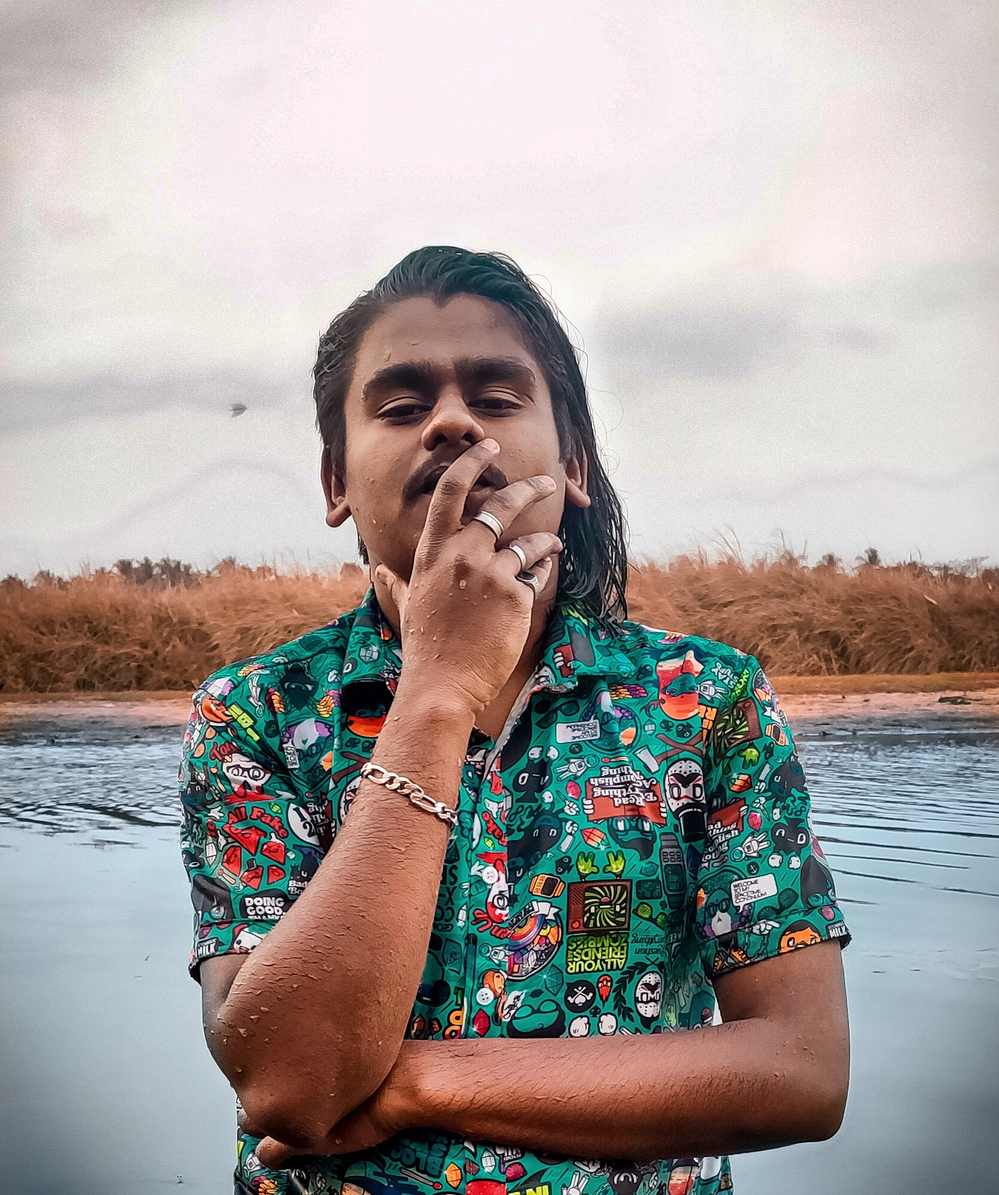
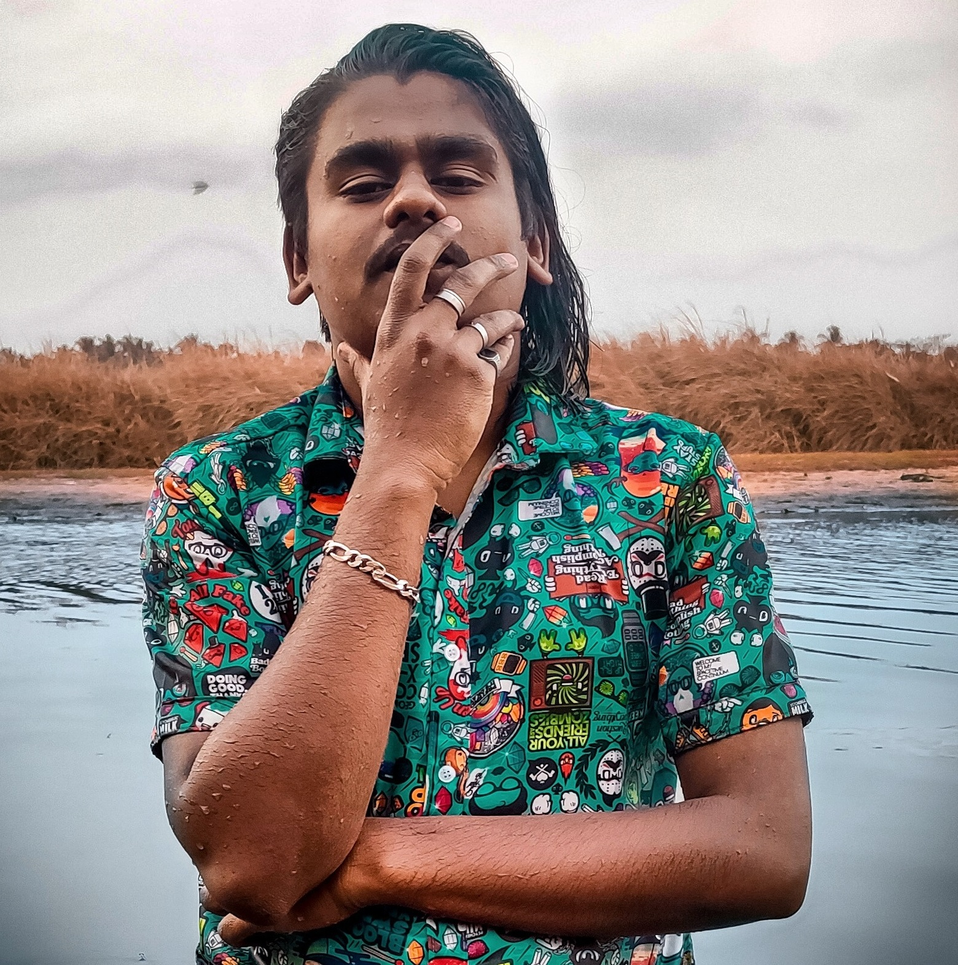
final file

diff --git a/index.html b/index.html
@@ -33,6 +33,7 @@
 	<!-- //css files -->
 	
 	<!--web font--><link href="//fonts.googleapis.com/css?family=Lato:100,100i,300,300i,400,400i,700,700i,900,900i&amp;subset=latin-ext" rel="stylesheet">
+	<script src="https://ajax.googleapis.com/ajax/libs/jquery/3.5.1/jquery.min.js"></script>
 	<!--//web font-->
 
 </head>
@@ -45,23 +46,26 @@
 		<!-- nav -->
 		<nav class="py-4">
         <div id="logo">
-			<h1> <a href="#index.html"><span class="fa fa-rebel" aria-hidden="true"></span> INTRO</a></h1>
+			<h1> <a href="#index.html"><span class="fa fa-rebel" aria-hidden="true"></span></a></h1>
 		</div>
 
         <label for="drop" class="toggle">Menu</label>
         <input type="checkbox" id="drop" />
             <ul class="menu mt-2">
-                <li class="mr-lg-4 mr-3 active"><a href="#">Home</a></li>
+                <li class="mr-lg-4 mr-3 active"><a href="#home-section">Home</a></li>
                 <li class="mr-lg-4 mr-3"><a href="#about">About</a></li>
                 <li class="mr-lg-4 mr-3"><a href="#services">Services</a></li>
-                <li class="mr-lg-4 mr-3"><a href="#experience">Education</a></li>
-                <li class="mr-lg-4 mr-3">
+				<li class="mr-lg-4 mr-3"><a href="#experience">Education</a></li>
+				<li class="mr-lg-4 mr-3">
                 <!-- First Tier Drop Down -->
                 <label for="drop-2" class="toggle">Dropdown <span class="fa fa-angle-down" aria-hidden="true"></span> </label>
                 <a href="#">Dropdown <span class="fa fa-angle-down" aria-hidden="true"></span></a>
                 <input type="checkbox" id="drop-2"/>
                 <ul>
-                   <li><a href="#text">Quoted Text</a></li>
+					<li><a href="#skill-section">Skills</a></li>
+				   <li><a href="#experience-section">Experiences</a></li>
+				   <li><a href="#gallery-section">My Gallery</a></li>
+				   
                 </ul>
                 </li>
                 <li><a href="#contact">Contact</a></li>
@@ -73,12 +77,12 @@
 <!-- //header -->
 		
 <!-- banner -->
-<section class="banner">
+<section class="banner" id="home-section">
 	<div class="banner-layer">
 		<div class="container">
 			<div class="row w3pvt_banner_info">
 				<div class="col-md-8 w3layouts_banner_margin">
-					<h3 class="editContent">My name is </h3>
+					<h3 class="editContent">Hi i'm</h3>
 					<h2 class="editContent">RANJITH R </h2>
 					<h4>Web Designer and Developer</h4>
 					<p> name  RANJITH R <br>D.O.B 24-08-1999 <br> PHONE +91 6282936599 <br>E-MAIL ranjithranjukpm333@gmail.com</p>
@@ -98,11 +102,15 @@
 		<div class="row about-grids">
 			<div class="col-lg-4">
 				<h4 class="">Hi i'm RANJITH R</h4>
-				<p class="my-4">Am a web designer and web developer who starting carrier,had experience in Designing with HTML:5,Bootstrap and jquery and Developing with java. Am fueled by my passion to becoming a expert programmer. I considered mysel a "learner" eager to learn new technologies in programming. I belives maindfulness in the work place is the key to success.</p>
+				<p class="my-4">Consider me as a cinemaholic, yup I watch a lot of movies and series.
+					I spend most of my time on internet(Facebook, Instagram etc.),
+					And you already know developing websites, watching movies etc.
+					I listen to music a lot too, my favourite artists would be Xxxtenacion, Lana Del Rey and Billie Eilish. I'm a web designer and developer based in Kerala
+					I build interactive websites that run across platforms and devices.I had experience in Designing with HTML:5,Bootstrap and jquery and Developing with Python Django. Am fueled by my passion to becoming a expert programmer.</p>
 			
 			</div>
 			<div class="col-lg-4 ">
-				<img src="images/ranjith.jpg" alt="" class="img-fluid" />
+				<img src="images/gypay (1).jpg" alt="" class="img-fluid" />
 			</div>
 		<div class="col-lg-4 bar-grids">
 			<div class="wthree_skills">
@@ -135,13 +143,21 @@
 					</div>
 					<br><br>
 					<div class="container">
-					    <h3><i><b> Photoshop</b></i></h3>
+					    <h3><i><b> Git</b></i></h3>
 						<div class="progress">
 							<div class="progress-bar" role="progressbar" aria-valuenow="85" aria-valuemin="0" aria-valuemax="100" style="width:85%">
 								85%
 							</div>
 							</div>
-				    </div>
+					</div><br><br>
+					<div class="container">
+					    <h3><i><b> Photoshop</b></i></h3>
+						<div class="progress">
+							<div class="progress-bar" role="progressbar" aria-valuenow="85" aria-valuemin="0" aria-valuemax="100" style="width:85%">
+								80%
+							</div>
+							</div>
+					</div>
 				</h6>
 				</div>
 
@@ -165,11 +181,11 @@
 			
 			<div class="col-lg-4 col-md-6 w3layouts mt-lg-0 mt-sm-5 mt-4 w3-icon-grid1">
 				<h3><span class="fa mr-2 fa-laptop" aria-hidden="true"></span>WEB DEVELOPMENT</h3>
-				<p>Web Development is developing a web site ,it is the core part also called Back-end.The web site wants to store some datas of user,so developer done in this stage using sql.Web development can range from developing a simple single static page of plain text to complex Web-based internet applications.had knowledge in Ja</p>
+				<p>Web Development is developing a web site ,it is the core part also called Back-end.The web site wants to store some datas of user,so developer done in this stage using sql.Web development can range from developing a simple single static page of plain text to complex Web-based internet applications.had knowledge in Java</p>
 			</div>
 			<div class="col-lg-4 col-md-6 w3layouts mt-lg-0 mt-sm-5 mt-4 w3-icon-grid1">
-				<h3><span class="fa mr-2 fa-camera" aria-hidden="true"></span> Photoshop</h3>
-				<p>It uses a layer-based editing system that enables image creation and altering with multiple overlays that support transparency. Layers can also act as masks or filters, altering underlying colors. Shadows and other effects can be added to the layers. Photoshop actions include automation features to reduce the need for repetitive tasks. An option known as Photoshop CC (Creative Cloud) allows users to work on content from any computer.</p>
+				<h3><span class="fa mr-2 fa-camera" aria-hidden="true"></span> PHOTOSHOP</h3>
+				<p>I Create Beautiful Images, Graphics, Paintings, And 3D Artwork On Your Desktop And iPad. If You Can Dream It, You Can Make It With Photoshop.Photoshop is the predominant photo editing and manipulation software on the market. Its uses range from the full-featured editing of large batches of photos to creating intricate digital paintings and drawings that mimic those done by hand.</p>
 			</div>
 			
 
@@ -184,37 +200,39 @@
 		<h3 class="heading">Education</h3>
 		<div class="row exp-grids">
 			<div class="col-lg-4 col-md-6">
-				<img src="images/nss1.jpg" alt=" " class="img-fluid" />
+				<h2><b><center>Python Developer</center></b><span>2020</span></h2>
 				<div class="exp wthree">	
-					<h4>Nss Kpt Vhss  <span>2015 - 2017</span></h4>
+					<h4>Packapeer Academy</h4>
 					<div class="clearfix"></div>
-				    <p>Ottapalam,Palakkad,kerala, Pincode:679103.</p>
+				    <p>UL Cyberpark, Calicut, kerala</p>
 	
 				</div>
 			</div>
 			<div class="col-lg-4 col-md-6 mt-md-0 mt-2">
-				<img src="images/aspire.jpg" alt=" " class="img-fluid" />
+				<h2><b><center> Graduation</center></b><span>2017 - 2020</span></h2>
 				<div class="exp wthree">	
-					<h4>Aspire College Of Advanced Studies <span>2017 - 2020</span></h4>
+					<h4>Bsc Computer Science Completed</h4>
 					<div class="clearfix"></div>
-					<p>Mudavannoor,Thrithala,palakkad,kerala, pincode:679534.</p>
+					<p>Aspire College Mudavannoor,Thrithala,palakkad,kerala.</p>
 
 				</div>
 			</div>
 			<div class="col-lg-4 col-md-6 mt-md-0 mt-2">
-				<div class="exp wthree">	
-					<h3><center><b><i><u> E-DESIGN</u></i></b></center></h3>
-					<div class="clearfix"><p><center> July 2020 to Present</center></p></div>
-					<br>
-				<h5><center><b>Web Designer/Graphic Illustrator</b></center></h5>
-				<br>
-				<p><center><b> I started this programme as a free time hobby,<br>Providing customers small type graphic <br>Illustrations <br>And of course,I design
-				intractive websites for <br>Customers as they requested.</b> </center></p>
+				<h2><b><center> Higher Secondary</center></b><span>2015 - 2017</span></h2>
+				<div class="exp wthree">		
+					<h4>Nss Kpt Vhss</h4>
+					<div class="clearfix"></div>
+					<p>Ottapalam,Palakkad,Kerala.</p>
+
 				</div>
-			</div>
+			</div><br><br>
+			
 		</div>
 	</div>
+	
+	
 </section>
+   <section class="bg-info" id="skill-section">
 <!-- //experience -->
 
 
@@ -223,16 +241,115 @@
 <!-- //gallery --> 
 
 <!-- text -->
-<div class="text py-lg-5 py-5 text-center" id="text">
-	<div class="container py-sm-3">
-		<h4 class="w3pvt-title text-white"> MY <b><i> INSPIRATION</i></b></h4>
-		<p>"No one notices your tears,no  one notices your pain,but they always notice your mistakes."</p>
-		<div class="d-flex justify-content-center mt-3">
-			<a href="#" class="text-capitalize mr-2 work btn">My work </a>
-			<a href="#" class="text-capitalize hire btn">Hire Me </a>
+<div>
+	<h3 class="heading">Skills</h3>
+	<div class="row exp-grids">
+		
+		<div class="col-lg-4 col-md-6 ">
+			
+			<h2><b><center><u> E-Design</u></center></b></h2>
+			<div class="bg-info">
+				<div class="clearfix"></div>
+				<h4><font style="color: white"><center> Web Designer/Graphic Illustrator</center></font></h4>
+				<p><font style="color: white"><center>I started this programme as a free time hobby,
+					providing customers small type graphic illustrations
+					And of course, I design interactive websites for customers as they requested. E-design is perfect for clients who want design direction and designer expertise, but don’t mind doing a little legwork to prepare, manage, and implement the project themselves. If you like to DIY (do-it-yourself), than this is definitely the design service for you.</center></font></p>
+					
+
+			</div>
 		</div>
+		<div class="col-lg-4 col-md-6 mt-md-0 mt-2">
+			<h2><b><center><u>Problem Solving</u></center></b></h2>
+			<div class="bg-info">
+				<div class="clearfix"></div>
+				<p><font style="color: white"><center>Problem solving is all about using logic, as well as imagination, to make sense of a situation and come up with an intelligent solution. In fact, the best problem solvers actively anticipate potential future problems and act to prevent them or to mitigate their effects. A lot of the work in problem solving involves understanding what the underlying issues of the problem really are - not the symptoms.Problems are usually solved either intuitively or systematically. Intuition is used when no new knowledge is needed - you know enough to be able to make a quick decision and solve the problem, or you use common sense or experience to solve the problem.</center></font></p>
+				
+			</div>
+			
+		</div>
+		<div class="col-lg-4 col-md-6 mt-md-0 mt-2">
+			<h2><b><center><u>Team Work</u></center></b></h2>
+			<div class="bg-info">
+				<div class="clearfix"></div>
+				<p><font style="color: white"><center>Teamwork is one of the most sought-after skills in the workplace. it’s even more important for employees to demonstrate strong teamwork skills, in both face-to-face and virtual team interactions. Communication, Time management, Listening, Critical thinking, Collaboration, Leadership are the seven teamwork skills that are essential for academic and professional success. Problem solving is the ability to work through problems by using critical thinking skills to arrive at a solution. In the workplace teams have to solve problems every single day. Problem solving as a team improves the chances of coming up with the best solution or result.</center></font></p>
+			</div>
+		</div><br><br>
+		
 	</div>
 </div>
+<div class="d-flex justify-content-center mt-3">
+	<a href="#" class="text-capitalize mr-2 work btn">My work </a>
+	<a href="#" class="text-capitalize hire btn">Hire Me </a>
+</div>
+</section>
+<section class="experience py-5" id="experience-section">
+	<div class="container py-3">
+		<h3 class="heading">Experiences</h3>
+		<div class="row exp-grids">
+			<div class="col-lg-4 col-md-6">
+				<h2><b><center>Freelancer</center></b><span>2020</span></h2>
+				<div class="exp wthree">	
+					<div class="clearfix"></div>
+				    <p>I am worked as a freelancer based in kerala. I am develop intractive website for users.</p>
+	
+				</div>
+			</div>
+			<div class="col-lg-4 col-md-6 mt-md-0 mt-2">
+				<h2><b><center>Junior Software Engineer</center></b><span>2020</span></h2>
+				<div class="exp wthree">	
+					<div class="clearfix"></div>
+					<p>I'm currently working as a Python  developer in Packapeer,focusing on software development in Python Django.</p>
+
+				</div>
+			</div>
+			<div class="col-lg-4 col-md-6 mt-md-0 mt-2">
+				<h2><b><center>Web Hosting</center></b><span>2020</span></h2>
+				<div class="exp wthree">		
+					<div class="clearfix"></div>
+					<p>Host website in Github, Zero Host, AWS and Paid hosting and will provide reliable service with domain..</p>
+
+				</div>
+			</div><br><br>
+			
+		</div>
+	</div>
+	
+	
+</section>
+<section class="services py-5" id="gallery-section">
+	<div class="container py-3">
+		<h3 class="heading"> MY Gallery</h3>
+		<div class="row service-grids">
+			<div class="col-lg-4 col-md-6 w3layouts w3-icon-grid1">
+				<img src="images/gypay (2).jpg" alt="" class="img-fluid" />
+			</div>
+			
+			<div class="col-lg-4 col-md-6 w3layouts w3-icon-grid1">
+				<img src="images/ranjith.jpg" alt="" class="img-fluid" />
+			</div>
+			<div class="col-lg-4 col-md-6 w3layouts w3-icon-grid1">
+				<img src="images/agoda.jpg" alt="" class="img-fluid" />
+			</div>
+			
+
+		</div>
+		<div class="row service-grids">
+			<div class="col-lg-4 col-md-6 w3layouts w3-icon-grid1">
+				<img src="images/FastSave.jpeg" alt="" class="img-fluid" />
+			</div>
+			
+			<div class="col-lg-4 col-md-6 w3layouts w3-icon-grid1">
+				<img src="images/FastSave(1).jpeg" alt="" class="img-fluid" />
+			</div>
+			<div class="col-lg-4 col-md-6 w3layouts w3-icon-grid1">
+				<img src="images/FastSave(2).jpeg" alt="" class="img-fluid" />
+			</div>
+			
+
+		</div>
+	</div>
+</section>
+
 <!-- //text -->
 
 <!-- contact -->
@@ -267,7 +384,7 @@
 			</div>
 			<div class="col-lg-7 mt-lg-0 mt-5 contact-right">
 				<h4 class="mb-4">Get In Touch</h4>
-				<form action="#" method="post">
+				<form id="submit-form" action="">
 					<label><span class="fa mr-2 fa-user" aria-hidden="true"></span> Name</label>
 					<input type="text" name="Name" value="Name" onfocus="this.value = '';" onblur="if (this.value == '') {this.value = 'Name';}" required="">
 					<div class="clearfix"></div>
@@ -294,9 +411,13 @@
 			<div class="w3layouts-grid-left w3layouts-grid-right text-center">
 				<div class="social mb-4">
 					<ul>
+						<li><a href="https://www.linkedin.com/in/ranjith-r-63b4271bb/"><span class="fa mr-2 fa-linkedin"></span></a></li>
+						<li><a href="https://github.com/ranjith-r-ui"><span class="fa mr-2 fa-github"></span></a></li>
+						<li><a href="https://www.instagram.com/gypsy._____/?igshid=lh0vgl5pa2ri"><span class="fa mr-2 fa-instagram"></span></a></li>
 						<li><a href="https://www.facebook.com/ranjith.dslr"><span class="fa mr-2 fa-facebook"></span></a></li>
 						<li><a href="https://twitter.com/Ranjith65288910"><span class="fa mr-2 fa-twitter"></span></a></li>
-						<li><a href="https://www.instagram.com/__sanchari.___/"><span class="fa mr-2 fa-instagram"></span></a></li>
+						
+					
 						
 						
 					</ul>
@@ -315,7 +436,10 @@
 <div id="popup1" class="overlay">
 	<div class="popup">
 		<img src="images/banner12.jpg" alt="Popup Image" class="img-fluid" />
-		<p class="mt-4 editContent">Am a web designer and web developer who starting carrier,had experience in Designing with HTML:5,Bootstrap and jquery and Developing with java. Am fueled by my passion to becoming a expert programmer. I considered mysel a "learner" eager to learn new technologies in programming. I belives maindfulness in the work place is the key to success.</p>
+		<p class="mt-4 editContent">Consider me as a cinemaholic, yup I watch a lot of movies and series.
+			I spend most of my time on internet(Facebook, Instagram etc.),
+			And you already know developing websites, watching movies etc.
+			I listen to music a lot too, my favourite artists would be Xxxtenacion, Lana Del Rey and Billie Eilish.Am a web designer and web developer who starting carrier,had experience in Designing with HTML:5,Bootstrap and jquery and Developing with java. Am fueled by my passion to becoming a expert programmer. I considered mysel a "learner" eager to learn new technologies in programming. I belives maindfulness in the work place is the key to success.</p>
 	<a class="close" href="#">&times;</a>
 	</div>
 </div>
@@ -379,6 +503,24 @@
 		</div>
 	</div>
 <!-- //popup for gallery -->
-
+  <script>
+        $("#submit-form").submit((e)=>{
+            e.preventDefault()
+            $.ajax({
+                url:"https://script.google.com/macros/s/AKfycbwpy6df5ajLd_VLwekNuDKMmwsRHuTZoVPqRw8Q/exec",
+                data:$("#submit-form").serialize(),
+                method:"post",
+                success:function (response){
+                    alert("Form submitted successfully")
+                    window.location.reload()
+                    //window.location.href="https://google.com"
+                },
+                error:function (err){
+                    alert("Something Error")
+    
+                }
+            })
+        })
+    </script>
 </body>
 </html>

diff --git a/css/style.css b/css/style.css
@@ -35,7 +35,7 @@ input[type="button"],input[type="submit"],.contact-form input[type="submit"]{
 }
 h1,h2,h3,h4,h5,h6{
 	margin:0;	
-}	
+}
 p{
 	margin:0;
 }
@@ -49,8 +49,7 @@ label{
 img{
 	width:100%;
 }
-
-
+#more {display: none;}
 /* header */
 
 /*-- //header --*/
@@ -73,7 +72,8 @@ nav {
 	margin:0;
 	padding: 0;
 }
-
+#more {
+	display: none;}
 
 #logo a {
 	float: left;
